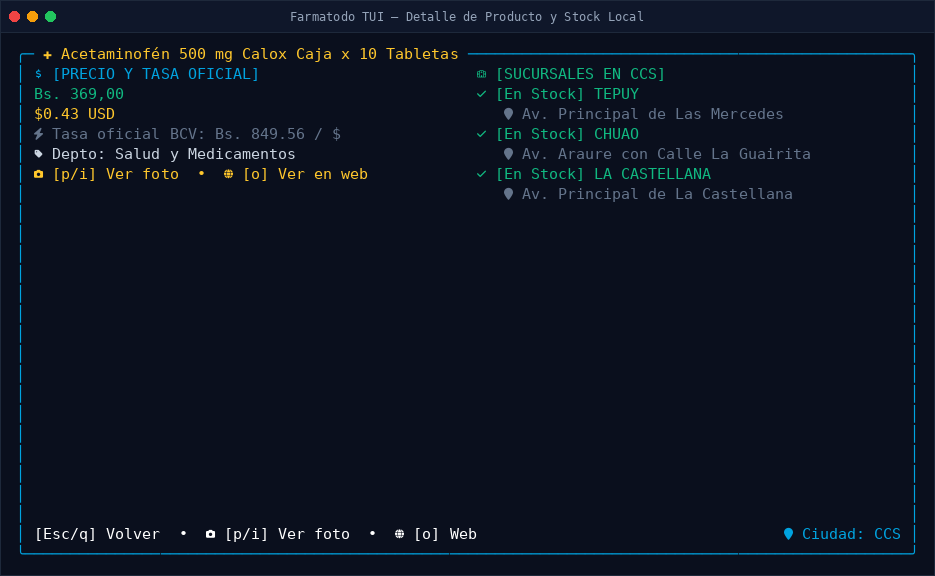
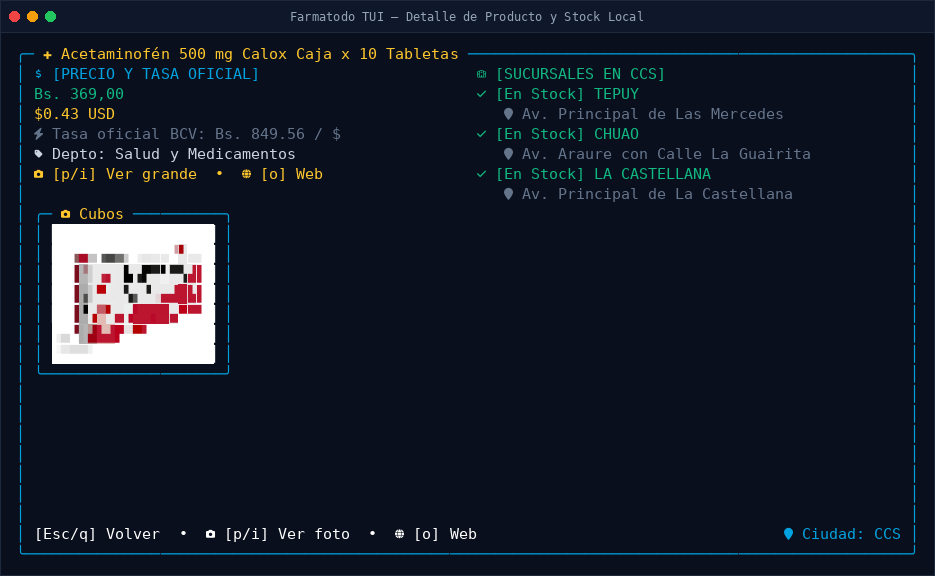
feat(tui): permanent cubos (truecolor halfblocks) image rendering in detail panel and modal

Changed region(s): [[0.031, 0.3438, 0.2481, 0.6562], [0.1551, 0.2812, 0.4032, 0.3125]]

diff --git a/src/tui.ts b/src/tui.ts
@@ -14,7 +14,13 @@ import {
   getProductStockInStores,
   getDepartments
 } from "./api";
-import { renderProductImage, openImageInBrowser, clearKittyImages } from "./image";
+import {
+  renderProductImage,
+  openImageInBrowser,
+  clearKittyImages,
+  getCachedNativeImage,
+  preloadNativeImage
+} from "./image";
 import { loadConfig, saveConfig } from "./config";
 import { getGlyphs } from "./glyphs";
 import type { FarmatodoProduct, City, Store } from "./types";
@@ -474,10 +480,14 @@ export class FarmatodoTUI {
     this.updateModal();
 
     try {
+      const cached = getCachedNativeImage(prod.mediaImageUrl);
+      if (!cached) {
+        await preloadNativeImage(prod.mediaImageUrl);
+      }
       const targetWidth = Math.max(28, Math.min(this.renderer.width - 14, 46));
       this.imageArt = await renderProductImage(prod.mediaImageUrl, targetWidth);
     } catch (e) {
-      this.imageArt = "[Error al renderizar imagen]";
+      this.imageArt = "[Error al renderizar imagen en cubos]";
     } finally {
       this.loadingImage = false;
       this.updateModal();
@@ -698,56 +708,106 @@ export class FarmatodoTUI {
 
     const curProd = this.getCurrentProduct();
     if (this.activeTab === "products" && curProd) {
-      this.rightDetailBox.add(new TextRenderable(this.renderer, {
+      const detailSplit = new BoxRenderable(this.renderer, {
+        width: "100%",
+        flexGrow: 1,
+        flexDirection: "row",
+        overflow: "hidden"
+      });
+      this.rightDetailBox.add(detailSplit);
+
+      const detailText = new BoxRenderable(this.renderer, {
+        flexGrow: 1,
+        flexDirection: "column",
+        paddingRight: 1,
+        overflow: "hidden"
+      });
+      detailSplit.add(detailText);
+
+      detailText.add(new TextRenderable(this.renderer, {
         content: isRecommended ? `${G.sparkles} [PRODUCTO RECOMENDADO]` : `${G.pill} [FICHA DE MEDICAMENTO]`,
         fg: THEME.blueAccent
       }));
 
-      this.rightDetailBox.add(new TextRenderable(this.renderer, {
+      detailText.add(new TextRenderable(this.renderer, {
         content: curProd.mediaDescription,
         fg: THEME.white
       }));
 
-      this.rightDetailBox.add(new TextRenderable(this.renderer, {
+      detailText.add(new TextRenderable(this.renderer, {
         content: `${G.tag} Marca: ${curProd.marca || "N/A"}  ${G.bullet}  ID: #${curProd.id}`,
         fg: THEME.grayMuted
       }));
 
-      this.rightDetailBox.add(new TextRenderable(this.renderer, {
+      detailText.add(new TextRenderable(this.renderer, {
         content: `${G.dollar} Precio: ${formatBs(curProd.fullPrice)} (${formatUsd(curProd.fullPrice, this.exchangeRate)})`,
         fg: THEME.green
       }));
 
       if (curProd.requirePrescription === "true" || curProd.requirePrescription === true) {
-        this.rightDetailBox.add(new TextRenderable(this.renderer, {
-          content: `${G.warning} [!] REQUIERE RÉCIPE MÉDICO OBLIGATORIO`,
+        detailText.add(new TextRenderable(this.renderer, {
+          content: `${G.warning} [!] REQUIERE RÉCIPE MÉDICO`,
           fg: THEME.rxRed
         }));
       }
 
-      this.rightDetailBox.add(new TextRenderable(this.renderer, {
-        content: `${G.package} Disponibilidad: ${curProd.stores_with_stock?.length || 0} farmacias activas`,
+      detailText.add(new TextRenderable(this.renderer, {
+        content: `${G.package} Stock: ${curProd.stores_with_stock?.length || 0} farmacias activas`,
         fg: THEME.blueAccent
       }));
 
-      this.rightDetailBox.add(new TextRenderable(this.renderer, {
+      detailText.add(new TextRenderable(this.renderer, {
         content: `${G.city} Ciudad: ${this.selectedCity}`,
         fg: THEME.grayMuted
       }));
 
-      this.rightDetailBox.add(new TextRenderable(this.renderer, {
-        content: `${G.camera} [p/i]: Ver fotografía oficial en terminal`,
+      detailText.add(new TextRenderable(this.renderer, {
+        content: `${G.enter} [Enter] Sucursales  ${G.bullet}  ${G.globe} [o] Web`,
         fg: THEME.gold
       }));
 
-      this.rightDetailBox.add(new TextRenderable(this.renderer, {
-        content: `${G.enter} [Enter]: Consultar sucursales con inventario`,
-        fg: THEME.grayLight
-      }));
+      // Recuadro permanente de fotografía convertida a cubos
+      const imageContainer = new BoxRenderable(this.renderer, {
+        width: 18,
+        height: "100%",
+        border: true,
+        borderStyle: "rounded",
+        borderColor: THEME.blueAccent,
+        title: ` ${G.camera} Cubos `,
+        titleColor: THEME.gold,
+        alignItems: "center",
+        justifyContent: "center",
+        flexShrink: 0,
+        overflow: "hidden"
+      });
+      detailSplit.add(imageContainer);
 
-      if (isRecommended) {
-        this.rightDetailBox.add(new TextRenderable(this.renderer, {
-          content: `${G.sparkles} Tip: Presiona [/] para buscar cualquier producto específico.`,
+      if (curProd.mediaImageUrl) {
+        const cached = getCachedNativeImage(curProd.mediaImageUrl);
+        if (cached) {
+          const img = new ImageRenderable(this.renderer, {
+            source: cached,
+            width: 14,
+            height: 8,
+            fit: "contain",
+            protocol: "blocks"
+          });
+          imageContainer.add(img);
+        } else {
+          imageContainer.add(new TextRenderable(this.renderer, {
+            content: "Cargando...",
+            fg: THEME.grayMuted
+          }));
+          preloadNativeImage(curProd.mediaImageUrl, () => {
+            if (this.getCurrentProduct()?.id === curProd.id && this.activeTab === "products") {
+              this.updateContentPanels();
+              this.renderer.requestRender();
+            }
+          });
+        }
+      } else {
+        imageContainer.add(new TextRenderable(this.renderer, {
+          content: "[Sin foto]",
           fg: THEME.grayMuted
         }));
       }
@@ -827,7 +887,7 @@ export class FarmatodoTUI {
 
       if (this.loadingImage) {
         modalBox.add(new TextRenderable(this.renderer, {
-          content: "Descargando imagen oficial...",
+          content: "Descargando imagen y generando cubos...",
           fg: THEME.blueAccent
         }));
       } else {
@@ -837,10 +897,21 @@ export class FarmatodoTUI {
           alignItems: "center",
           justifyContent: "center"
         });
-        imageContentBox.add(new TextRenderable(this.renderer, {
-          content: this.imageArt || "[Sin imagen disponible]",
-          fg: THEME.white
-        }));
+        const cached = prod?.mediaImageUrl ? getCachedNativeImage(prod.mediaImageUrl) : null;
+        if (cached) {
+          imageContentBox.add(new ImageRenderable(this.renderer, {
+            source: cached,
+            width: Math.min(this.renderer.width - 10, 48),
+            height: Math.min(this.renderer.height - 6, 18),
+            fit: "contain",
+            protocol: "blocks"
+          }));
+        } else {
+          imageContentBox.add(new TextRenderable(this.renderer, {
+            content: this.imageArt || "[Sin fotografía disponible]",
+            fg: THEME.white
+          }));
+        }
         modalBox.add(imageContentBox);
       }
 
@@ -924,9 +995,47 @@ export class FarmatodoTUI {
       }));
 
       leftCol.add(new TextRenderable(this.renderer, {
-        content: `${G.camera} [p/i] Ver foto  ${G.bullet}  ${G.globe} [o] Ver en web`,
+        content: `${G.camera} [p/i] Ver grande  ${G.bullet}  ${G.globe} [o] Web`,
         fg: THEME.gold
       }));
+
+      if (p.mediaImageUrl) {
+        const modalImageBox = new BoxRenderable(this.renderer, {
+          width: 22,
+          height: 9,
+          border: true,
+          borderStyle: "rounded",
+          borderColor: THEME.blueAccent,
+          title: ` ${G.camera} Cubos `,
+          titleColor: THEME.gold,
+          alignItems: "center",
+          justifyContent: "center",
+          marginTop: 1,
+          overflow: "hidden"
+        });
+        const cached = getCachedNativeImage(p.mediaImageUrl);
+        if (cached) {
+          modalImageBox.add(new ImageRenderable(this.renderer, {
+            source: cached,
+            width: 18,
+            height: 7,
+            fit: "contain",
+            protocol: "blocks"
+          }));
+        } else {
+          modalImageBox.add(new TextRenderable(this.renderer, {
+            content: "Cargando cubos...",
+            fg: THEME.grayMuted
+          }));
+          preloadNativeImage(p.mediaImageUrl, () => {
+            if (this.detailModalProduct?.id === p.id) {
+              this.updateModal();
+              this.renderer.requestRender();
+            }
+          });
+        }
+        leftCol.add(modalImageBox);
+      }
 
       const rightCol = new BoxRenderable(this.renderer, {
         width: "50%",

diff --git a/scripts/screenshot.ts b/scripts/screenshot.ts
@@ -1,5 +1,7 @@
 import { createTestRenderer } from "@opentui/core/testing";
+import { NativeImage } from "@opentui/core";
 import { FarmatodoTUI } from "../src/tui";
+import { setCachedNativeImage } from "../src/image";
 import type { FarmatodoProduct, Store, City } from "../src/types";
 import { spawnSync } from "child_process";
 import fs from "fs";
@@ -120,6 +122,7 @@ const mockDepartments = [
 ];
 
 async function captureAndSave(setup: Awaited<ReturnType<typeof createTestRenderer>>, filename: string, title: string) {
+  await new Promise((r) => setTimeout(r, 80));
   await setup.renderOnce();
   const spans = setup.captureSpans();
   const tmpJson = path.join("/tmp", `spans_${Date.now()}_${Math.random().toString(36).slice(2)}.json`);
@@ -152,6 +155,13 @@ async function main() {
   }
 
   console.log("📸 Generating visual screenshots for Farmatodo TUI...");
+
+  // Pre-cargar imagen de prueba en cubos para los mocks
+  try {
+    const rawPng = await (await fetch("https://lh3.googleusercontent.com/u7U9tmF3IRPmTZfDXgQ6t18K-4vG1zxQTJimRWH8dbUeFA7j5KOwAfRXX3P_P94SiBaYI40rQNABkr8U7jDqx8gvYP3RsqCbKUBrxKwoViu-c7Eo")).arrayBuffer();
+    const img = NativeImage.decode(new Uint8Array(rawPng));
+    setCachedNativeImage("https://example.com/item1.jpg", img);
+  } catch (_) {}
 
   // 1. Vista Principal (Dashboard)
   {
@@ -249,7 +259,7 @@ async function main() {
     setup.renderer.destroy();
   }
 
-  // 6. Vista Modal de Imagen
+  // 6. Vista Modal de Imagen en Cubos
   {
     const setup = await createTestRenderer({ width: 100, height: 26 });
     const app = new FarmatodoTUI(setup.renderer);
@@ -261,10 +271,9 @@ async function main() {
     app.cities = mockCities;
     app.selectedIndex = 0;
     app.showImageView = true;
-    app.imageArt = "[ Fotografía oficial del producto ]\n\n  █▀▀▀▀▀▀▀▀▀▀▀▀▀▀▀▀█\n  █  FARMATODO VE  █\n  █  CALOX 500mg   █\n  █▄▄▄▄▄▄▄▄▄▄▄▄▄▄▄▄█";
     app.updateView();
 
-    await captureAndSave(setup, "tui_image_modal.png", "Farmatodo TUI — Visor de Fotografía Oficial");
+    await captureAndSave(setup, "tui_image_modal.png", "Farmatodo TUI — Visor de Fotografía en Cubos");
     setup.renderer.destroy();
   }
 

diff --git a/src/image.ts b/src/image.ts
@@ -3,7 +3,50 @@ import { execSync, spawn } from "child_process";
 import fs from "fs";
 import path from "path";
 
+import { NativeImage } from "@opentui/core";
+
 const imageCache = new Map<string, string>();
+const nativeImageCache = new Map<string, NativeImage>();
+const pendingFetches = new Set<string>();
+
+export function getCachedNativeImage(url: string): NativeImage | null {
+  return nativeImageCache.get(url) || null;
+}
+
+export function setCachedNativeImage(url: string, img: NativeImage) {
+  nativeImageCache.set(url, img);
+}
+
+export async function preloadNativeImage(
+  url: string,
+  onLoaded?: (img: NativeImage) => void
+): Promise<NativeImage | null> {
+  if (!url) return null;
+  if (nativeImageCache.has(url)) {
+    const cached = nativeImageCache.get(url)!;
+    onLoaded?.(cached);
+    return cached;
+  }
+  if (pendingFetches.has(url)) return null;
+  pendingFetches.add(url);
+
+  try {
+    const res = await fetch(url);
+    if (!res.ok) {
+      pendingFetches.delete(url);
+      return null;
+    }
+    const buf = await res.arrayBuffer();
+    const img = NativeImage.decode(new Uint8Array(buf));
+    nativeImageCache.set(url, img);
+    pendingFetches.delete(url);
+    onLoaded?.(img);
+    return img;
+  } catch (err) {
+    pendingFetches.delete(url);
+    return null;
+  }
+}
 
 /**
  * Envía el comando de Kitty Graphics Protocol para eliminar cualquier imagen flotante del búfer

diff --git a/tests/tui.test.ts b/tests/tui.test.ts
@@ -96,9 +96,10 @@ describe("Farmatodo TUI Visual and Functional Tests (OpenTUI Core)", () => {
     expect(frame).toContain("[3] Deptos");
     expect(frame).toContain("[4] Ciudades");
 
-    // 5. Productos listados
+    // 5. Productos listados y panel de detalle con tarjeta de cubos
     expect(frame).toContain("Acetaminofén 500 mg");
     expect(frame).toContain("Bs. 369,00");
+    expect(frame).toContain("Cubos");
 
     // 6. Barra de comandos inferior
     expect(frame).toContain("[Tab/1-4] Vistas");
@@ -150,6 +151,7 @@ describe("Farmatodo TUI Visual and Functional Tests (OpenTUI Core)", () => {
     expect(frame).toContain("[PRECIO Y TASA OFICIAL]");
     expect(frame).toContain("Acetaminofén 500 mg Calox");
     expect(frame).toContain("SUCURSALES EN CCS");
+    expect(frame).toContain("Cubos");
 
     // Cerrar modal enviando evento escape
     testSetup.renderer.keyInput.emit("keypress", { name: "escape" });
